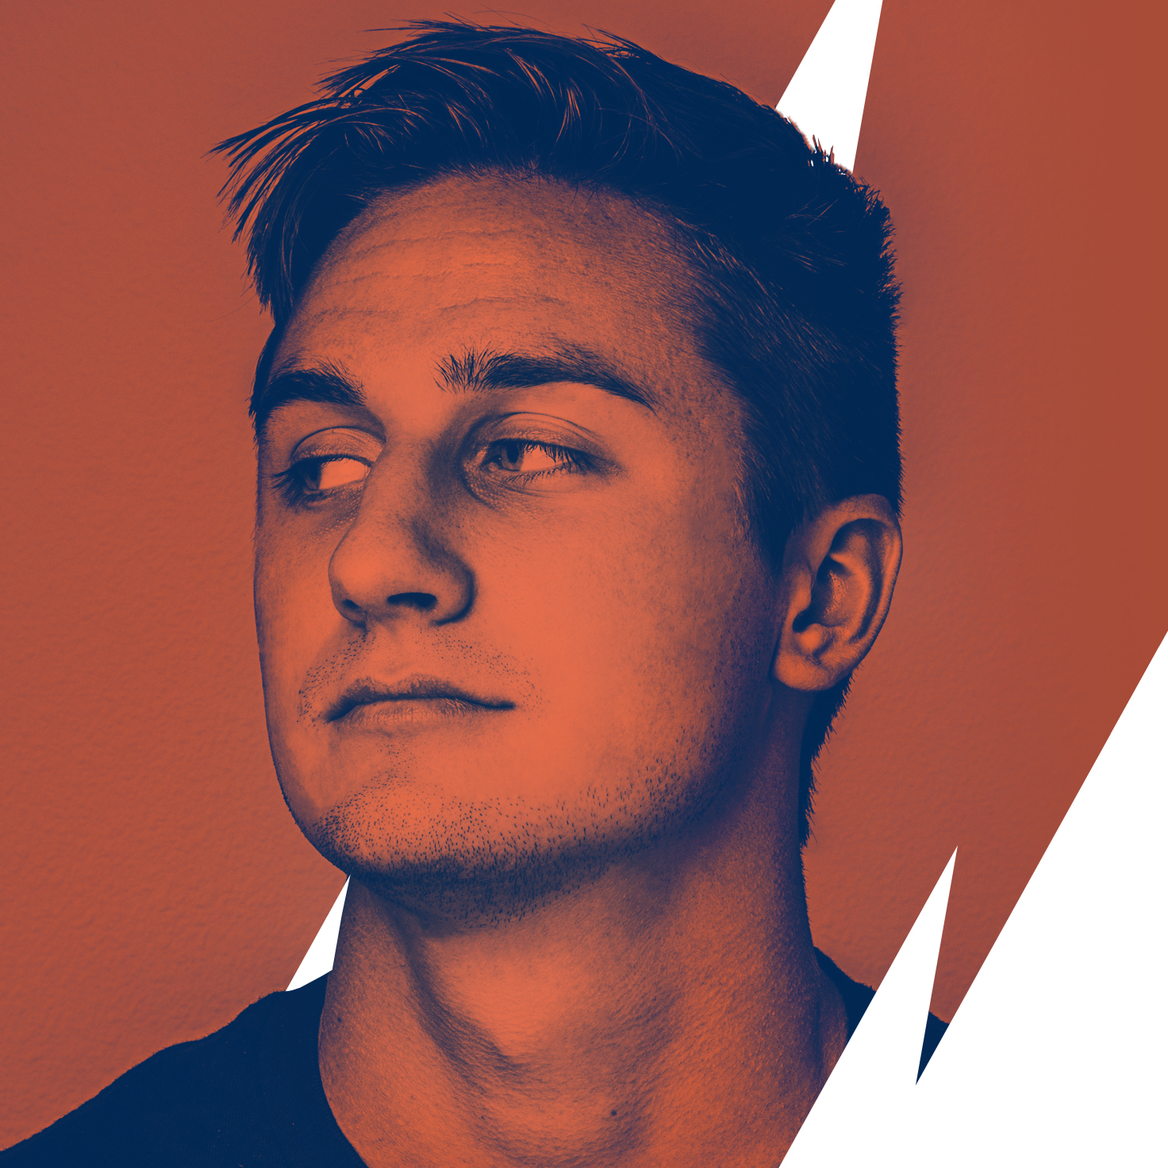
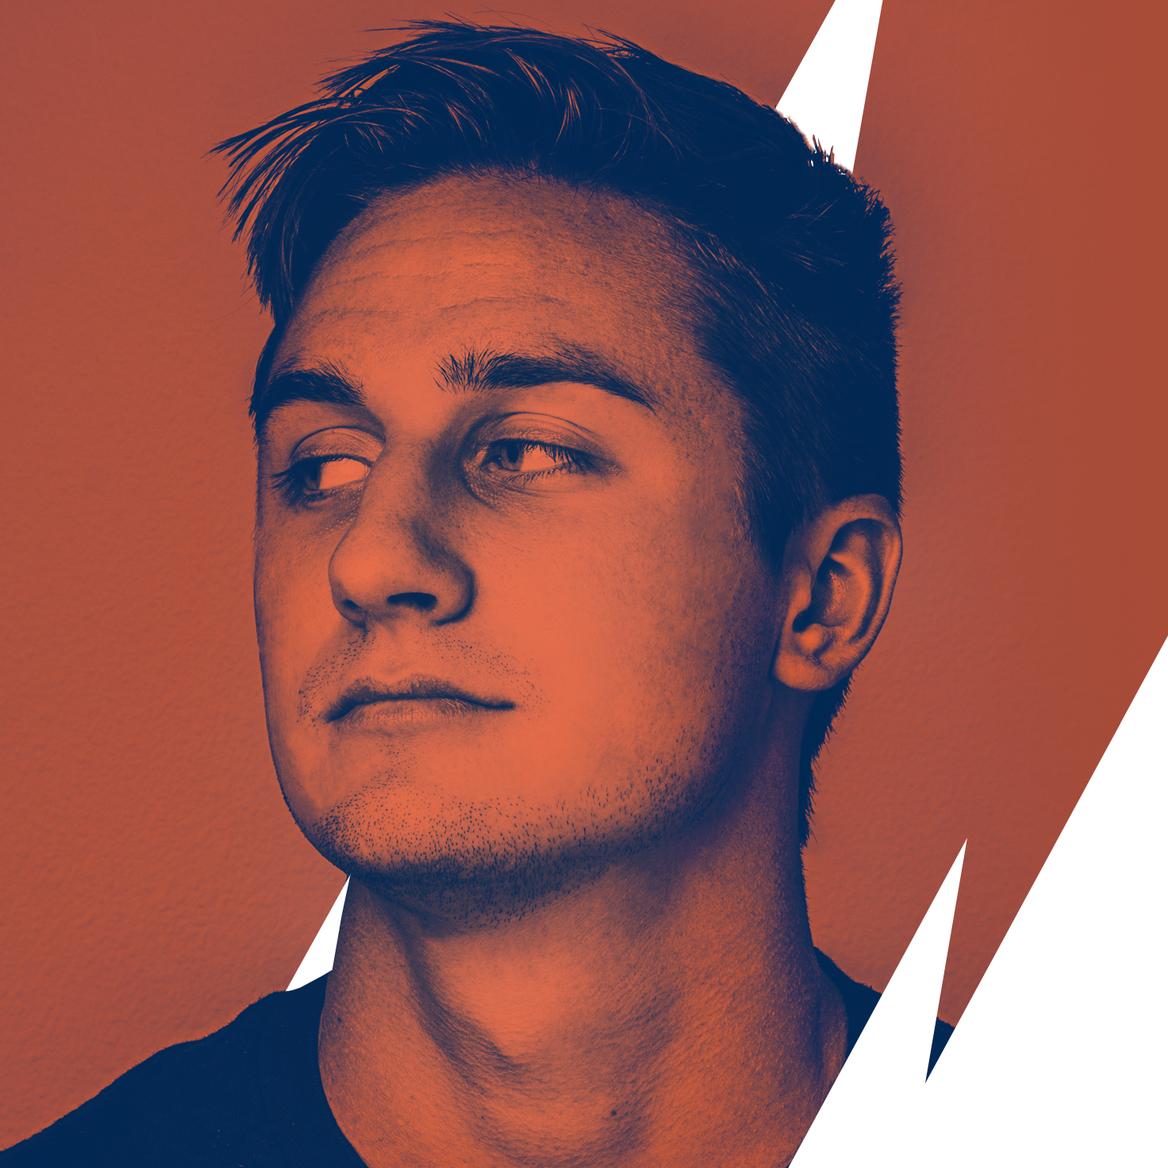
Adjusting header to fit inside the grid system

diff --git a/sites/all/themes/eshell/styles/styles.min.css b/sites/all/themes/eshell/styles/styles.min.css
@@ -1,2 +1,2 @@
-html,mark{color:#000}*,:after,:before,input[type=radio],input[type=checkbox]{padding:0;box-sizing:border-box}body,html{background:#fff}ul,ul li{list-style:none}button,input,p,textarea{width:100%;font-size:1.2vw}h1,p{color:#333}body,html,img,p,ul li{float:left}#header #header-right:before,.article-content .node-filters .field-item a:before,.node-article .node-title a::before,q:after,q:before{content:''}article,aside,details,figcaption,figure,footer,header,hgroup,nav,section,summary{display:block}audio,canvas,video{display:inline-block}.resizable-textarea .grippie,[hidden],label,template{display:none}audio:not([controls]){display:none;height:0}html{-webkit-text-size-adjust:100%;-ms-text-size-adjust:100%}button,html,input,select,textarea{font-family:sans-serif}body,figure{margin:0}a{background:0 0;color:#07274f;text-decoration:none}a:focus{outline:dotted thin}a:active,a:hover{outline:0}h3{font-size:1.17em;margin:1em 0}h4{font-size:1em;margin:1.33em 0}h5{font-size:.83em;margin:1.67em 0}h6{font-size:.75em;margin:2.33em 0}abbr[title]{border-bottom:1px dotted}b,strong{font-weight:700}dfn{font-style:italic}mark{background:#ff0}code,kbd,pre,samp{font-family:monospace,serif;font-size:1em}pre{white-space:pre;white-space:pre-wrap;word-wrap:break-word}q{quotes:"\201C" "\201D" "\2018" "\2019"}q:after,q:before{content:none}small{font-size:80%}sub,sup{font-size:75%;line-height:0;position:relative;vertical-align:baseline}sup{top:-.5em}sub{bottom:-.25em}img{border:0;max-width:100%;height:auto}svg:not(:root){overflow:hidden}fieldset{border:1px solid silver;margin:0 2px;padding:.35em .625em .75em}legend{border:0;padding:0;white-space:normal}button,input,select,textarea{font-family:inherit;font-size:100%;margin:0;vertical-align:baseline}.node-article .node-title a,body,button,h1,html,input,p,textarea{font-family:'Lato',sans-serif}button,input{line-height:normal}button,select{text-transform:none}button,html input[type=button],input[type=reset],input[type=submit]{-webkit-appearance:button;cursor:pointer}button[disabled],input[disabled]{cursor:default}button::-moz-focus-inner,input::-moz-focus-inner{border:0;padding:0}textarea{overflow:auto;vertical-align:top}table{border-collapse:collapse;border-spacing:0}input[type=search]{-webkit-appearance:textfield;box-sizing:content-box}input[type=search]::-webkit-search-cancel-button,input[type=search]::-webkit-search-decoration{-webkit-appearance:none}*,:after,:before{margin:0}body,html{width:100%;height:100%;padding:0;margin:0;font-smoothing:subpixel-antialiased;text-rendering:optimizeLegibility;font-smooth:always}:focus{outline:0}ul{padding:0}ul li{margin:auto}::-webkit-input-placeholder{color:#07274f}::-moz-placeholder{color:#07274f}:-ms-input-placeholder{color:#07274f}button,input,textarea{outline:0;border:0;padding:1vw;background:#efefef;-webkit-appearance:none;border-radius:0;line-height:1.5;-webkit-transition:all .2s ease;transition:all .2s ease}input[type=submit]{color:#fff;background:#68c06d}input[type=submit]:hover{background:#44b94a;-webkit-transition:all 0s ease;transition:all 0s ease}.form-item{margin:0 0 .5vw}h1,h2{margin:0}.form-item input:hover,.form-textarea:hover,.webform-component input:hover{background:#f7f7f7;-webkit-transition:all 0s ease;transition:all 0s ease}p{font-weight:400;line-height:2;margin:1vw 0}h1{font-size:4vw;font-weight:900;padding:.5em 0 0}h2{font-size:1.5em}.field-name-body a:not(.exempt),.field-name-field-body a:not(.exempt){color:#07274f;overflow:hidden;font-weight:500;position:relative;display:inline-block;outline:0;vertical-align:bottom;text-decoration:none;word-spacing:.25em;margin-right:.2em}.pager .pager-current,.pager li a{float:left;padding:1.5em;display:block}.field-name-body a:not(.exempt)::before,.field-name-field-body a:not(.exempt)::before{content:'';position:absolute;bottom:0;left:0;z-index:-1;width:100%;height:1px;background:#07274f;-webkit-transition:-webkit-transform .2s;transition:transform .2s;-webkit-transform:scaleY(.5) translateX(-105%);-ms-transform:scaleY(.5) translateX(-105%);transform:scaleY(.5) translateX(-105%)}.field-name-body a:not(.exempt)::after,.field-name-body a:not(.exempt)::before,.field-name-field-body a:not(.exempt)::after,.field-name-field-body a:not(.exempt)::before{pointer-events:none;-webkit-backface-visibility:hidden;backface-visibility:hidden}.field-name-body a:not(.exempt):focus::before,.field-name-body a:not(.exempt):hover::before,.field-name-field-body a:not(.exempt):focus::before,.field-name-field-body a:not(.exempt):hover::before{-webkit-transform:scaleY(1) translateX(0);-ms-transform:scaleY(1) translateX(0);transform:scaleY(1) translateX(0)}#site{z-index:10;float:left;width:100%;background:#fff}.messages{padding:1rem;background:#2e2f33;color:#f3d5ae}.messages a{color:#f3d5ae;text-decoration:underline}.messages.error{background:#e9704f;color:#fff}.messages.error a{color:#fff;text-decoration:underline}#admin-menu{box-shadow:none}.item-list{float:left;width:100%}.pager{float:right;width:auto;font-size:1em;line-height:1;text-transform:capitalize;background:#fff;background:-webkit-gradient(linear,left top,left bottom,color-stop(0,#fff),color-stop(100%,#fcfcfc));background:-webkit-linear-gradient(top,#fff 0,#fcfcfc 100%);background:linear-gradient(to bottom,#fff 0,#fcfcfc 100%)}.pager li{float:left}.pager li.pager-current{background:#07274f;color:#fff}.pager li a{-webkit-transition:all .2s ease;transition:all .2s ease}.pager li a:active,.pager li a:hover{border:0;color:#fff;background:#07274f;-webkit-transition:all 0s ease;transition:all 0s ease}.pager .pager-current{-webkit-transition:all .2s ease;transition:all .2s ease}.pager-next,.pager-previous{display:none}#header #header-left,#header #header-right,.article-container{float:left;display:-webkit-box;display:-webkit-flex;display:-ms-flexbox}.pager-ellipsis{padding:1.5em .5em;color:#07274f}#header{float:left;width:100%}#header #header-left,#header #header-right{position:relative;width:calc(50vw - .46875rem);height:calc(50vw - .46875rem);display:flex;-webkit-box-align:center;-webkit-align-items:center;-ms-flex-align:center;align-items:center;-webkit-box-pack:center;-webkit-justify-content:center;-ms-flex-pack:center;justify-content:center}#header #header-right:before{position:absolute;top:0;left:0;border-bottom:0 solid transparent;border-left:0 solid transparent;border-right:14vw solid transparent;border-top:26.75vw solid #A84B37;height:0;width:0}#header #profile{z-index:2;position:absolute;width:100%;height:100%;top:0;left:0}#header #logo{z-index:5;width:33vw}#header #intro{padding:0 10vw;text-align:justify}#header #intro p{color:#2e2f33;font-size:1.3vw;line-height:2.2}#header #learn-more{position:absolute;bottom:22.5%;right:calc(50% - 5.25rem)}#header #learn-more a{font-size:.9rem;padding:.75rem 2.5rem;border-radius:43px;color:#fff;background:#53b3c7;text-transform:uppercase}#header #learn-more a:focus,#header #learn-more a:hover{background:-webkit-linear-gradient(135deg,#07274f 0,#e9704f 100%);background:linear-gradient(-45deg,#07274f 0,#e9704f 100%)}.article-container{width:100%;display:flex}.article-content .node-filters .field-item a,.node-article .node-title a{text-transform:uppercase;overflow:hidden;color:#2e2f33;display:inline-block;outline:0;vertical-align:bottom;text-decoration:none}.node-article .node-title{float:left}.node-article .node-title a{font-weight:900;font-size:2.5vw;position:relative}.node-article .node-title a::before{position:absolute;bottom:0;left:0;width:100%;height:3px;background:#000;-webkit-transition:-webkit-transform .2s;transition:transform .2s;-webkit-transform:scaleY(.5) translateX(-105%);-ms-transform:scaleY(.5) translateX(-105%);transform:scaleY(.5) translateX(-105%)}.node-article .node-title a::after,.node-article .node-title a::before{pointer-events:none;-webkit-backface-visibility:hidden;backface-visibility:hidden}.node-article .node-title a:focus::before,.node-article .node-title a:hover::before{-webkit-transform:scaleY(1) translateX(0);-ms-transform:scaleY(1) translateX(0);transform:scaleY(1) translateX(0)}.article-content{position:relative;padding:4vw;float:left;width:50%;-webkit-box-align:stretch;-webkit-align-items:stretch;-ms-flex-align:stretch;align-items:stretch}.article-content .node-title{float:left;width:100%}.article-content .field-name-body{float:left;width:100%;text-align:justify}.article-content .node-filters{position:absolute;left:4vw;bottom:4vw;float:left}.article-content .node-filters .field-item{float:left;margin-right:1vw}.article-content .node-filters .field-item a{line-height:1.5;font-size:1.25vw;font-weight:500;position:relative}.article-content .node-filters .field-item a:before{position:absolute;bottom:0;left:0;width:100%;height:2px;background:#2e2f33;-webkit-transition:-webkit-transform .2s;transition:transform .2s;-webkit-transform:scaleY(.5) translateX(-105%);-ms-transform:scaleY(.5) translateX(-105%);transform:scaleY(.5) translateX(-105%)}.article-content .node-filters .field-item a:after,.article-content .node-filters .field-item a:before{pointer-events:none;-webkit-backface-visibility:hidden;backface-visibility:hidden}.article-content .node-filters .field-item a:focus:before,.article-content .node-filters .field-item a:hover:before{-webkit-transform:scaleY(1) translateX(0);-ms-transform:scaleY(1) translateX(0);transform:scaleY(1) translateX(0)}.article-content .node-filters .field-item:last-child{margin-right:0}.article-image{position:relative;float:left;width:50%}.article-image img{width:100%;float:left}.node-readmore{position:absolute;padding:0;bottom:0;text-align:center;transition:all .2s ease-in-out}.node-readmore,.node-readmore a{width:100%;margin:0;height:100%;-webkit-transition:all .2s ease-in-out}.node-readmore a{opacity:0;padding-top:30%;font-size:4vw;font-weight:900;text-transform:uppercase;float:left;border:0;transition:all .2s ease-in-out}.node-readmore span{display:none}.node-readmore:hover{background:rgba(255,255,255,.8);-webkit-transition:all 0s ease-in-out;transition:all 0s ease-in-out}.node-readmore:hover a{opacity:1;text-align:center;transition:all .2s ease-in-out}.node-readmore:hover a,ul.flippy li a{-webkit-transition:all .2s ease-in-out}.node-article{float:left;width:100%}.node-type-article article{float:none;margin:auto;max-width:1300px;padding-bottom:.75em}.field-name-field-video{float:left;width:100%;margin:.5em 0 0}.node-article.view-mode-full #article-header{padding:0 18vw}.node-article.view-mode-full #article-header .node-title{float:left}.node-article.view-mode-full #article-header .submitted{float:right;font-size:1.3vw;margin-top:.5em;text-transform:uppercase}.node-article.view-mode-full p{font-size:1.3vw;text-align:justify;padding:0 18vw}#article-filters{float:left;width:100%;background:#2e2f33;padding:2em;display:-webkit-box;display:-webkit-flex;display:-ms-flexbox;display:flex;-webkit-box-orient:horizontal;-webkit-box-direction:normal;-webkit-flex-direction:row;-ms-flex-direction:row;flex-direction:row;-webkit-flex-wrap:wrap;-ms-flex-wrap:wrap;flex-wrap:wrap;-webkit-box-pack:center;-webkit-justify-content:center;-ms-flex-pack:center;justify-content:center;-webkit-align-content:center;-ms-flex-line-pack:center;align-content:center;-webkit-box-align:center;-webkit-align-items:center;-ms-flex-align:center;align-items:center}#article-filters .field-name-field-media-type,#article-filters .field-name-field-tags{float:left}#article-filters .group-filters{width:auto}#article-filters .group-filters .field-item{margin-right:1.5em}#article-filters .group-filters .field-item a{color:#fff;font-size:1.3em}#article-filters .group-filters .field-item a::before{background:#fff}ul.flippy{float:left;width:100%}ul.flippy li{padding:0;margin:0;float:left;width:50%}ul.flippy li a{color:#fff;background:#07274f;text-align:center;font-size:1.3vw;padding:1.5em;float:left;width:100%;transition:all .2s ease-in-out}ul.flippy li a:hover{background:#efefef;color:#000;-webkit-transition:all 0s ease-in-out;transition:all 0s ease-in-out}ul.flippy li.prev{float:right}.view-photos .node-photo{float:left;width:33.333%}.view-photos .photo-container{position:relative;overflow:hidden}.view-photos .photo-container:focus .photo-title,.view-photos .photo-container:hover .photo-title{bottom:0;-webkit-transition:.1s all ease-in-out;transition:.1s all ease-in-out}.view-photos .photo-title{position:absolute;width:100%;padding:1rem;background:rgba(255,255,255,.8);font-size:1rem;font-weight:900;font-family:'Lato';left:0;bottom:-4rem;text-transform:uppercase;-webkit-transition:.2s all ease-in-out;transition:.2s all ease-in-out}
+html,mark{color:#000}*,:after,:before,input[type=radio],input[type=checkbox]{padding:0;box-sizing:border-box}body,html{background:#fff}ul,ul li{list-style:none}button,input,p,textarea{width:100%;font-size:1.2vw}h1,p{color:#333}body,html,img,p,ul li{float:left}#header #header-right:before,.article-content .node-filters .field-item a:before,.node-article .node-title a::before,q:after,q:before{content:''}article,aside,details,figcaption,figure,footer,header,hgroup,nav,section,summary{display:block}audio,canvas,video{display:inline-block}.resizable-textarea .grippie,[hidden],label,template{display:none}audio:not([controls]){display:none;height:0}html{-webkit-text-size-adjust:100%;-ms-text-size-adjust:100%}button,html,input,select,textarea{font-family:sans-serif}body,figure{margin:0}a{background:0 0;color:#07274f;text-decoration:none}a:focus{outline:dotted thin}a:active,a:hover{outline:0}h3{font-size:1.17em;margin:1em 0}h4{font-size:1em;margin:1.33em 0}h5{font-size:.83em;margin:1.67em 0}h6{font-size:.75em;margin:2.33em 0}abbr[title]{border-bottom:1px dotted}b,strong{font-weight:700}dfn{font-style:italic}mark{background:#ff0}code,kbd,pre,samp{font-family:monospace,serif;font-size:1em}pre{white-space:pre;white-space:pre-wrap;word-wrap:break-word}q{quotes:"\201C" "\201D" "\2018" "\2019"}q:after,q:before{content:none}small{font-size:80%}sub,sup{font-size:75%;line-height:0;position:relative;vertical-align:baseline}sup{top:-.5em}sub{bottom:-.25em}img{border:0;max-width:100%;height:auto}svg:not(:root){overflow:hidden}fieldset{border:1px solid silver;margin:0 2px;padding:.35em .625em .75em}legend{border:0;padding:0;white-space:normal}button,input,select,textarea{font-family:inherit;font-size:100%;margin:0;vertical-align:baseline}.node-article .node-title a,body,button,h1,html,input,p,textarea{font-family:'Lato',sans-serif}button,input{line-height:normal}button,select{text-transform:none}button,html input[type=button],input[type=reset],input[type=submit]{-webkit-appearance:button;cursor:pointer}button[disabled],input[disabled]{cursor:default}button::-moz-focus-inner,input::-moz-focus-inner{border:0;padding:0}textarea{overflow:auto;vertical-align:top}table{border-collapse:collapse;border-spacing:0}input[type=search]{-webkit-appearance:textfield;box-sizing:content-box}input[type=search]::-webkit-search-cancel-button,input[type=search]::-webkit-search-decoration{-webkit-appearance:none}*,:after,:before{margin:0}body,html{width:100%;height:100%;padding:0;margin:0;font-smoothing:subpixel-antialiased;text-rendering:optimizeLegibility;font-smooth:always}:focus{outline:0}ul{padding:0}ul li{margin:auto}::-webkit-input-placeholder{color:#07274f}::-moz-placeholder{color:#07274f}:-ms-input-placeholder{color:#07274f}button,input,textarea{outline:0;border:0;padding:1vw;background:#efefef;-webkit-appearance:none;border-radius:0;line-height:1.5;-webkit-transition:all .2s ease;transition:all .2s ease}input[type=submit]{color:#fff;background:#68c06d}input[type=submit]:hover{background:#44b94a;-webkit-transition:all 0s ease;transition:all 0s ease}.form-item{margin:0 0 .5vw}h1,h2{margin:0}.form-item input:hover,.form-textarea:hover,.webform-component input:hover{background:#f7f7f7;-webkit-transition:all 0s ease;transition:all 0s ease}p{font-weight:400;line-height:2;margin:1vw 0}h1{font-size:4vw;font-weight:900;padding:.5em 0 0}h2{font-size:1.5em}.field-name-body a:not(.exempt),.field-name-field-body a:not(.exempt){color:#07274f;overflow:hidden;font-weight:500;position:relative;display:inline-block;outline:0;vertical-align:bottom;text-decoration:none;word-spacing:.25em;margin-right:.2em}.pager .pager-current,.pager li a{float:left;padding:1.5em;display:block}.field-name-body a:not(.exempt)::before,.field-name-field-body a:not(.exempt)::before{content:'';position:absolute;bottom:0;left:0;z-index:-1;width:100%;height:1px;background:#07274f;-webkit-transition:-webkit-transform .2s;transition:transform .2s;-webkit-transform:scaleY(.5) translateX(-105%);-ms-transform:scaleY(.5) translateX(-105%);transform:scaleY(.5) translateX(-105%)}.field-name-body a:not(.exempt)::after,.field-name-body a:not(.exempt)::before,.field-name-field-body a:not(.exempt)::after,.field-name-field-body a:not(.exempt)::before{pointer-events:none;-webkit-backface-visibility:hidden;backface-visibility:hidden}.field-name-body a:not(.exempt):focus::before,.field-name-body a:not(.exempt):hover::before,.field-name-field-body a:not(.exempt):focus::before,.field-name-field-body a:not(.exempt):hover::before{-webkit-transform:scaleY(1) translateX(0);-ms-transform:scaleY(1) translateX(0);transform:scaleY(1) translateX(0)}#site{z-index:10;float:left;width:100%;background:#fff}.messages{padding:1rem;background:#2e2f33;color:#f3d5ae}.messages a{color:#f3d5ae;text-decoration:underline}.messages.error{background:#e9704f;color:#fff}.messages.error a{color:#fff;text-decoration:underline}#admin-menu{box-shadow:none}.item-list{float:left;width:100%}.pager{float:right;width:auto;font-size:1em;line-height:1;text-transform:capitalize;background:#fff;background:-webkit-gradient(linear,left top,left bottom,color-stop(0,#fff),color-stop(100%,#fcfcfc));background:-webkit-linear-gradient(top,#fff 0,#fcfcfc 100%);background:linear-gradient(to bottom,#fff 0,#fcfcfc 100%)}.pager li{float:left}.pager li.pager-current{background:#07274f;color:#fff}.pager li a{-webkit-transition:all .2s ease;transition:all .2s ease}.pager li a:active,.pager li a:hover{border:0;color:#fff;background:#07274f;-webkit-transition:all 0s ease;transition:all 0s ease}.pager .pager-current{-webkit-transition:all .2s ease;transition:all .2s ease}.pager-next,.pager-previous{display:none}#header #header-left,#header #header-right,.article-container{float:left;display:-webkit-box;display:-webkit-flex;display:-ms-flexbox}.pager-ellipsis{padding:1.5em .5em;color:#07274f}#header{float:left;width:100%}#header #header-left,#header #header-right{position:relative;width:calc(50vw - .46875rem);height:calc(50vw - .46875rem);display:flex;-webkit-box-align:center;-webkit-align-items:center;-ms-flex-align:center;align-items:center;-webkit-box-pack:center;-webkit-justify-content:center;-ms-flex-pack:center;justify-content:center}#header #header-right:before{position:absolute;top:0;left:0;border-bottom:0 solid transparent;border-left:0 solid transparent;border-right:14.1vw solid transparent;border-top:26.9vw solid #A84B37;height:0;width:0}#header #profile{z-index:2;position:absolute;width:100%;height:100%;top:0;left:0}#header #logo{z-index:5;width:33vw}#header #intro{padding:0 10vw;text-align:justify}#header #intro p{color:#2e2f33;font-size:1.3vw;line-height:2.2}#header #learn-more{position:absolute;bottom:22.5%;right:calc(50% - 5.25rem)}#header #learn-more a{font-size:.9rem;padding:.75rem 2.5rem;border-radius:43px;color:#fff;background:#53b3c7;text-transform:uppercase}#header #learn-more a:focus,#header #learn-more a:hover{background:-webkit-linear-gradient(135deg,#07274f 0,#e9704f 100%);background:linear-gradient(-45deg,#07274f 0,#e9704f 100%)}.article-container{width:100%;display:flex}.article-content .node-filters .field-item a,.node-article .node-title a{text-transform:uppercase;overflow:hidden;color:#2e2f33;display:inline-block;outline:0;vertical-align:bottom;text-decoration:none}.node-article .node-title{float:left}.node-article .node-title a{font-weight:900;font-size:2.5vw;position:relative}.node-article .node-title a::before{position:absolute;bottom:0;left:0;width:100%;height:3px;background:#000;-webkit-transition:-webkit-transform .2s;transition:transform .2s;-webkit-transform:scaleY(.5) translateX(-105%);-ms-transform:scaleY(.5) translateX(-105%);transform:scaleY(.5) translateX(-105%)}.node-article .node-title a::after,.node-article .node-title a::before{pointer-events:none;-webkit-backface-visibility:hidden;backface-visibility:hidden}.node-article .node-title a:focus::before,.node-article .node-title a:hover::before{-webkit-transform:scaleY(1) translateX(0);-ms-transform:scaleY(1) translateX(0);transform:scaleY(1) translateX(0)}.article-content{position:relative;padding:4vw;float:left;width:50%;-webkit-box-align:stretch;-webkit-align-items:stretch;-ms-flex-align:stretch;align-items:stretch}.article-content .node-title{float:left;width:100%}.article-content .field-name-body{float:left;width:100%;text-align:justify}.article-content .node-filters{position:absolute;left:4vw;bottom:4vw;float:left}.article-content .node-filters .field-item{float:left;margin-right:1vw}.article-content .node-filters .field-item a{line-height:1.5;font-size:1.25vw;font-weight:500;position:relative}.article-content .node-filters .field-item a:before{position:absolute;bottom:0;left:0;width:100%;height:2px;background:#2e2f33;-webkit-transition:-webkit-transform .2s;transition:transform .2s;-webkit-transform:scaleY(.5) translateX(-105%);-ms-transform:scaleY(.5) translateX(-105%);transform:scaleY(.5) translateX(-105%)}.article-content .node-filters .field-item a:after,.article-content .node-filters .field-item a:before{pointer-events:none;-webkit-backface-visibility:hidden;backface-visibility:hidden}.article-content .node-filters .field-item a:focus:before,.article-content .node-filters .field-item a:hover:before{-webkit-transform:scaleY(1) translateX(0);-ms-transform:scaleY(1) translateX(0);transform:scaleY(1) translateX(0)}.article-content .node-filters .field-item:last-child{margin-right:0}.article-image{position:relative;float:left;width:50%}.article-image img{width:100%;float:left}.node-readmore{position:absolute;padding:0;bottom:0;text-align:center;transition:all .2s ease-in-out}.node-readmore,.node-readmore a{width:100%;margin:0;height:100%;-webkit-transition:all .2s ease-in-out}.node-readmore a{opacity:0;padding-top:30%;font-size:4vw;font-weight:900;text-transform:uppercase;float:left;border:0;transition:all .2s ease-in-out}.node-readmore span{display:none}.node-readmore:hover{background:rgba(255,255,255,.8);-webkit-transition:all 0s ease-in-out;transition:all 0s ease-in-out}.node-readmore:hover a{opacity:1;text-align:center;transition:all .2s ease-in-out}.node-readmore:hover a,ul.flippy li a{-webkit-transition:all .2s ease-in-out}.node-article{float:left;width:100%}.node-type-article article{float:none;margin:auto;max-width:1300px;padding-bottom:.75em}.field-name-field-video{float:left;width:100%;margin:.5em 0 0}.node-article.view-mode-full #article-header{padding:0 18vw}.node-article.view-mode-full #article-header .node-title{float:left}.node-article.view-mode-full #article-header .submitted{float:right;font-size:1.3vw;margin-top:.5em;text-transform:uppercase}.node-article.view-mode-full p{font-size:1.3vw;text-align:justify;padding:0 18vw}#article-filters{float:left;width:100%;background:#2e2f33;padding:2em;display:-webkit-box;display:-webkit-flex;display:-ms-flexbox;display:flex;-webkit-box-orient:horizontal;-webkit-box-direction:normal;-webkit-flex-direction:row;-ms-flex-direction:row;flex-direction:row;-webkit-flex-wrap:wrap;-ms-flex-wrap:wrap;flex-wrap:wrap;-webkit-box-pack:center;-webkit-justify-content:center;-ms-flex-pack:center;justify-content:center;-webkit-align-content:center;-ms-flex-line-pack:center;align-content:center;-webkit-box-align:center;-webkit-align-items:center;-ms-flex-align:center;align-items:center}#article-filters .field-name-field-media-type,#article-filters .field-name-field-tags{float:left}#article-filters .group-filters{width:auto}#article-filters .group-filters .field-item{margin-right:1.5em}#article-filters .group-filters .field-item a{color:#fff;font-size:1.3em}#article-filters .group-filters .field-item a::before{background:#fff}ul.flippy{float:left;width:100%}ul.flippy li{padding:0;margin:0;float:left;width:50%}ul.flippy li a{color:#fff;background:#07274f;text-align:center;font-size:1.3vw;padding:1.5em;float:left;width:100%;transition:all .2s ease-in-out}ul.flippy li a:hover{background:#efefef;color:#000;-webkit-transition:all 0s ease-in-out;transition:all 0s ease-in-out}ul.flippy li.prev{float:right}.view-photos .node-photo{float:left;width:33.333%}.view-photos .photo-container{position:relative;overflow:hidden}.view-photos .photo-container:focus .photo-title,.view-photos .photo-container:hover .photo-title{bottom:0;-webkit-transition:.1s all ease-in-out;transition:.1s all ease-in-out}.view-photos .photo-title{position:absolute;width:100%;padding:1rem;background:rgba(255,255,255,.8);font-size:1rem;font-weight:900;font-family:'Lato';left:0;bottom:-4rem;text-transform:uppercase;-webkit-transition:.2s all ease-in-out;transition:.2s all ease-in-out}
 /*# sourceMappingURL=styles.min.css.map */

diff --git a/sites/all/themes/eshell/styles/scss/layout/_header.scss b/sites/all/themes/eshell/styles/scss/layout/_header.scss
@@ -20,8 +20,8 @@
       left: 0;
       border-bottom: 0px solid transparent;
       border-left: 0px solid transparent;
-      border-right: 14vw solid transparent;
-      border-top: 26.75vw solid #A84B37;
+      border-right: 14.1vw solid transparent;
+      border-top: 26.9vw solid #A84B37;
       height: 0;
       width: 0;
     }
